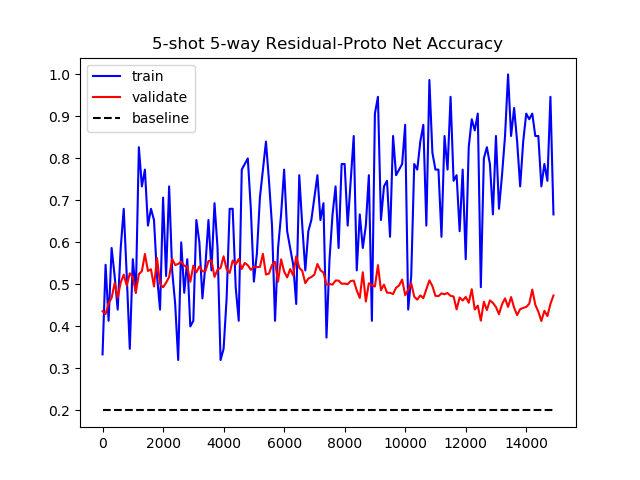
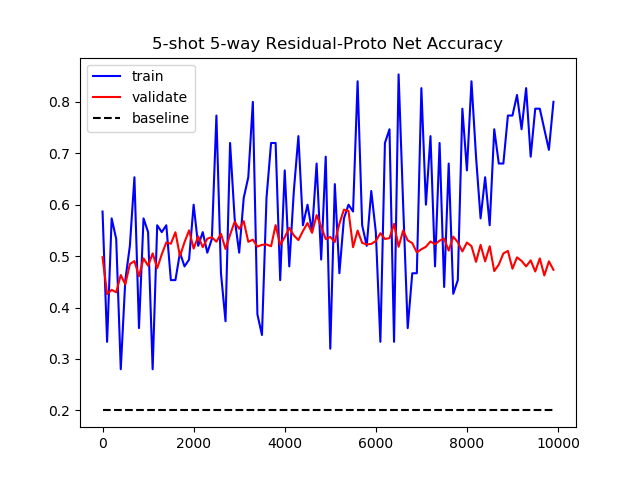
0831 commit

diff --git a/modules/runnable/dlExp11.py b/modules/runnable/dlExp11.py
@@ -38,7 +38,7 @@ N = 20
 # 学习率
 lr = 1e-3
 
-version = 20
+version = 18
 metric = "Proto"
 
 TEST_CYCLE = 100
@@ -50,8 +50,8 @@ total_train_classes = 300
 train_classes = 300
 test_classes = 60
 
-inner_var_alpha = 1e-3
-outer_var_alpha = 1e-3
+inner_var_alpha = 1e-2
+outer_var_alpha = 1e-2
 
 # init_best_acc = 0.8
 
@@ -213,7 +213,7 @@ plt.savefig(DOC_SAVE_PATH + '%d_acc.png'%version)
 plt.show()
 
 plt.title('%d-shot %d-way Residual-%s Net Loss'%(k,n,metric))
-plt.ylim(0,5)
+plt.ylim(0,3)
 plt.plot(train_x, [train_loss_his[i] for i in range(0,len(train_acc_his),TEST_CYCLE)], linestyle='-', color='blue', label='train')
 plt.plot(test_x, test_loss_his, linestyle='-', color='red', label='validate')
 plt.legend()

diff --git a/modules/runnable/dlExp12.py b/modules/runnable/dlExp12.py
@@ -23,7 +23,7 @@ from modules.model.datasets import FewShotRNDataset, get_RN_modified_sampler, ge
 VALIDATE_PATH = "D:/peimages/New/Residual_5shot_5way_exp/test/"
 # MODEL_LOAD_PATH = "D:/peimages/New/ProtoNet_5shot_5way_exp/"+"Residual_last_epoch_model_5shot_5way_v9.0.h5"
 # MODEL_LOAD_PATH = "D:/peimages/New/ProtoNet_5shot_5way_exp/"+"Residual_5000_epoch_model_5shot_5way_v17.0.h5"
-MODEL_LOAD_PATH = "D:/peimages/New/Residual_5shot_5way_exp/models/"+"Residual_best_acc_model_5shot_5way_v19.0.h5"
+MODEL_LOAD_PATH = "D:/peimages/New/Residual_5shot_5way_exp/models/"+"Residual_best_acc_model_5shot_5way_v18.0.h5"
 
 input_size = 256
 

diff --git a/doc/dl_ResidualNet_5shot_5way_exp/config.md b/doc/dl_ResidualNet_5shot_5way_exp/config.md
@@ -126,6 +126,8 @@ n个类，而不是之前的单纯抽取前n个类
 
 1. 修改了 超参数，增大了方差的系数：从0.01 减小到0.001
 
+2. 学习率2000轮下降一次
+
 ## 进一步的目标：
 
 - 8.24：
